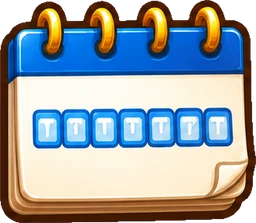
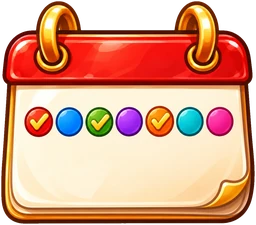
W7-H: Park Assets set 2 art + map; new weekly calendar glyph (no gibberish letters)

diff --git a/game-assets/w7Art.ts b/game-assets/w7Art.ts
@@ -44,6 +44,14 @@ import aq_coffeegrinder from './antiques2/coffeegrinder.webp';
 import aq_goldcompass from './antiques2/goldcompass.webp';
 import aq_footstool from './antiques2/footstool.webp';
 import aq_trophyspoon from './antiques2/trophyspoon.webp';
+import pb_picnictable from './parkassets/picnictable.webp';
+import pb_pinwheel from './parkassets/pinwheel.webp';
+import pb_mailbox from './parkassets/mailbox.webp';
+import pb_wishingwell from './parkassets/wishingwell.webp';
+import pb_bandstand from './parkassets/bandstand.webp';
+import pb_vegbed from './parkassets/vegbed.webp';
+import pb_elderstatue from './parkassets/elderstatue.webp';
+import pb_lamppost from './parkassets/lamppost.webp';
 
 export const POSSE_EMBLEM_ART: string[] = [pe_skirmish, pe_bingo, pe_porch, pe_knit, pe_casserole, pe_gnome, pe_cane, pe_swing];
 export const POSSE_HEADER_ART: string = posseHeader;
@@ -86,4 +94,15 @@ export const NEW_ANTIQUE_ART_W7: Record<string, string> = {
   "Gold Pocket Compass": aq_goldcompass,
   "Embroidered Footstool": aq_footstool,
   "Silver Trophy Spoon": aq_trophyspoon,
+};
+// W7-H Park Assets set 2 (suggested rarity looks; economy owner sets names/prices/points).
+export const NEW_PARK_ASSET_ART2: Record<string, { name: string; rarity: 'Common' | 'Rare' | 'Epic' | 'Legendary'; art: string }> = {
+  picnictable: { name: 'Picnic Table', rarity: 'Common', art: pb_picnictable },
+  pinwheel: { name: 'Garden Pinwheel', rarity: 'Common', art: pb_pinwheel },
+  mailbox: { name: 'Porch Mailbox', rarity: 'Common', art: pb_mailbox },
+  wishingwell: { name: 'Wishing Well', rarity: 'Rare', art: pb_wishingwell },
+  bandstand: { name: 'Bandstand', rarity: 'Epic', art: pb_bandstand },
+  vegbed: { name: 'Vegetable Bed', rarity: 'Rare', art: pb_vegbed },
+  elderstatue: { name: 'Founder Statue', rarity: 'Epic', art: pb_elderstatue },
+  lamppost: { name: 'Brass Lamp Post', rarity: 'Rare', art: pb_lamppost },
 };

diff --git a/GERIATRIC_PARK_STATUS_2026-10-26.md b/GERIATRIC_PARK_STATUS_2026-10-26.md
@@ -142,3 +142,4 @@ Done and wired: see v7/v6 (all N/A sheets, buildings, structures, debate icon, f
 - 2026-10-30 account A: W7-F (6 new Keepsakes) and W7-G (6 new Antiques) cut to game-assets/keepsakes2 and antiques2, listed in NEW_KEEPSAKE_ART_W7 / NEW_ANTIQUE_ART_W7; art only, not in shops/collections yet (B sets price/yield, A sets antique perks).
 - 2026-10-30 account A: wired W7-A emblem art into PossePanel (emblemIcon renders art for skirmish/bingo/porch/knit/casserole/gnome/cane/swing; 6 new ids added to the api/posse.ts EMBLEMS whitelist, old 9 ids stay valid so existing Posses keep their emblem). B: please deploy api/posse.ts with it.
 - 2026-11-01 account B: Posse screen reworked per owner: header button (moved out of Friends), co-leads max 5, 29 emblems unlocked by Posse level, owner can change emblem/name colour/font (migration 032), Posse level shown; design for points/missions/competitions/reward tracks in `POSSE_PROGRESSION.md` (no Posse currency, owner agreed). Owner must run migration 032. NEXT: points counting (needs approval of the P1-P6 questions in the doc).
+- 2026-10-30 account A: W7-H Park Assets set 2 (8 items, NEW_PARK_ASSET_ART2) and the weekly Tasks calendar glyph re-roll (replaces game-assets/glyphs/tab_weekly.webp, F8 done). Art only for the assets.
